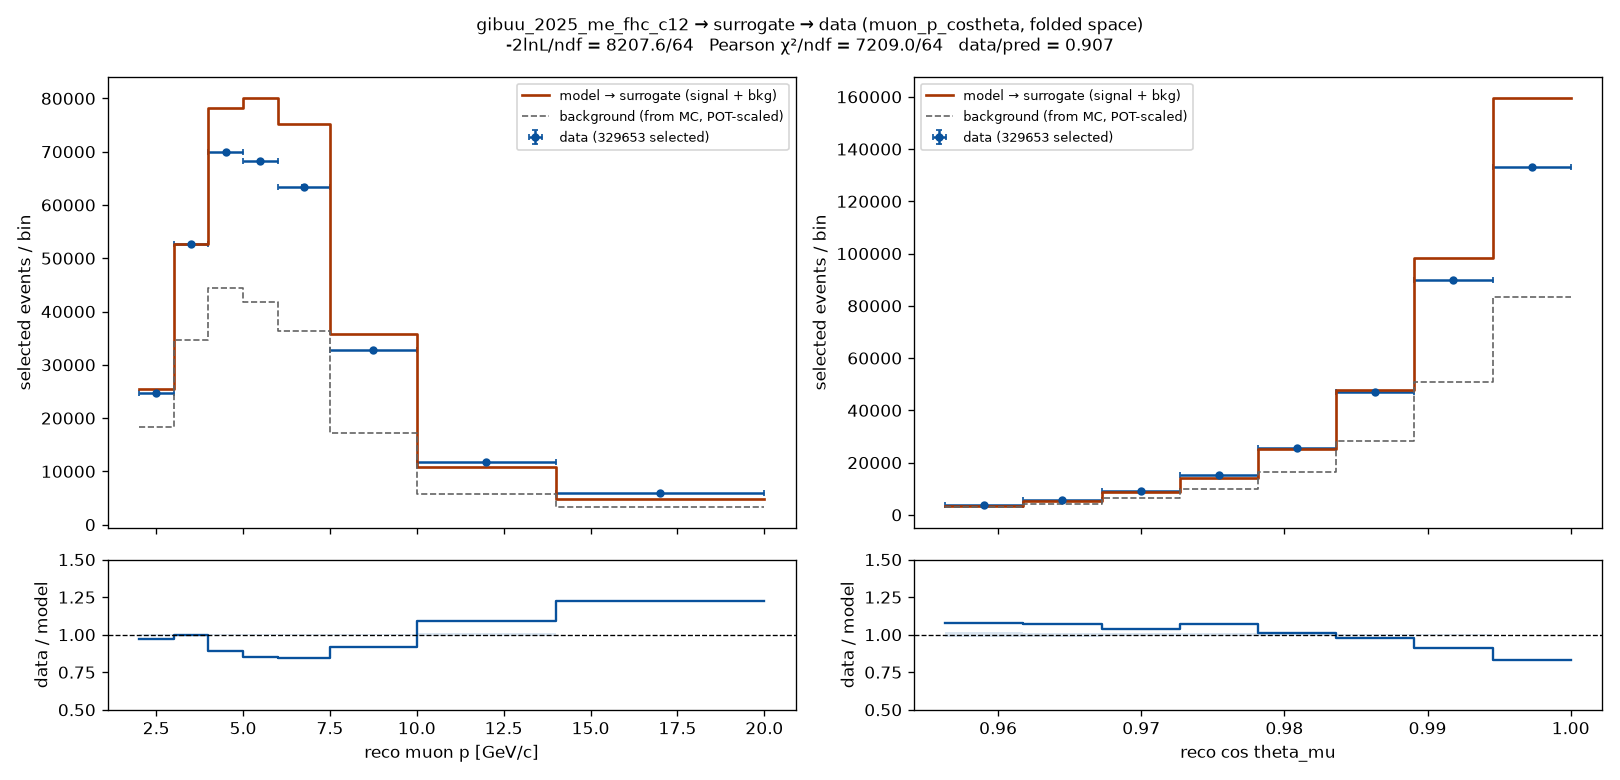
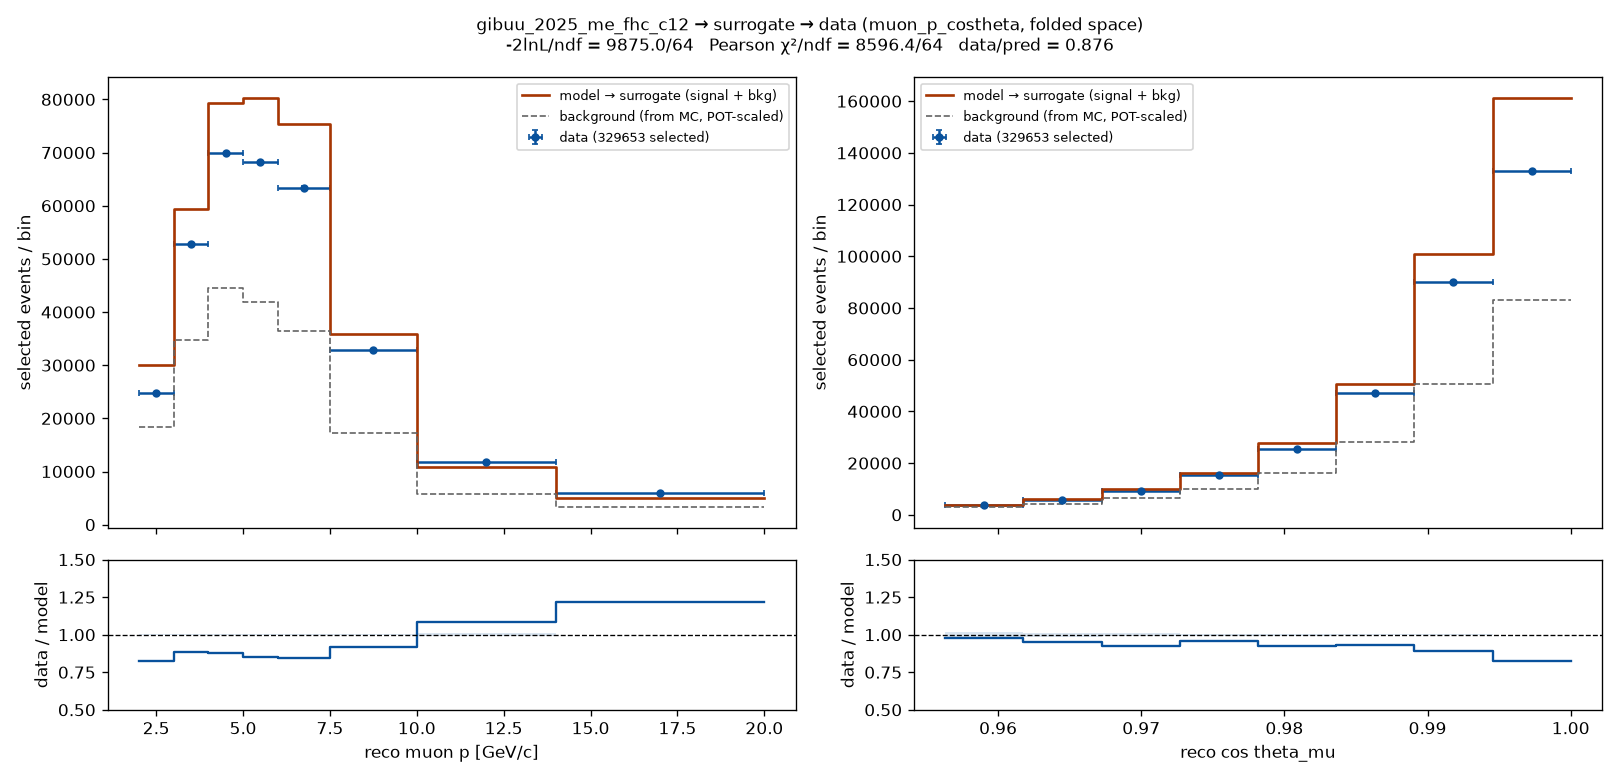
GiBUU overlay, final sample: 115 of 116 energy points, 94.6 percent of the flux
153 of 156 jobs merged (979 395 events, sigma_CC = 4.124e-38 cm2/nucleon over the
covered flux; QE 8.3, RES 15.6, DIS 72.6, 2p2h 3.5 percent). Data 329 293 selected
vs GiBUU signal 175 508 + MC background 201 827: data/pred 0.873 on dpT, 0.85-0.88
across the 18 grids (GENIE central value: 0.842). Only the 2.25 GeV point is
missing, where the 1mu1p phase space is closed, so the signal is unaffected.

Claude-Session: https://claude.ai/code/session_01RsKDgBGBAfg8hdaAriDoeB

diff --git a/report/GiBUU_overlay_FHC.md b/report/GiBUU_overlay_FHC.md
@@ -1,6 +1,6 @@
 # GiBUU 1μ1p signal on the MINERvA ME FHC selection: efficiency, background and data overlay
 
-**Status:** rendered from `runs/2026-09-15_efficiency_minerva_me_ccqelike_1mu1p` (efficiency maps, background, ansatz closure) and `runs/2026-09-16_gibuu_2025_me_fhc_c12__minerva_me_ccqelike_1mu1p__all` (data vs GiBUU signal + MC background on 18 grids), manifest git `c4c8a74`. Numbers are quoted from those directories; this file was rendered by `report/make_overlay_report.py`.
+**Status:** rendered from `runs/2026-09-15_efficiency_minerva_me_ccqelike_1mu1p` (efficiency maps, background, ansatz closure) and `runs/2026-09-16_gibuu_2025_me_fhc_c12__minerva_me_ccqelike_1mu1p__all_3` (data vs GiBUU signal + MC background on 18 grids), manifest git `2b81262`. Numbers are quoted from those directories; this file was rendered by `report/make_overlay_report.py`.
 
 **Model:** GiBUU 2025 numu CC on 12C under the NuMI ME FHC flux, generated as fixed-energy integratedSigma runs on a flux-weighted 0.5 GeV energy grid (2-60 GeV, 116 points, 156 grid jobs, ~1.07M events with near-uniform weights); in-medium resonance widths on, 2p2h and two-pion background on.
 
@@ -12,13 +12,13 @@
 |---|---|
 | data | ME FHC playlists 1A–1P, 1.057 × 10²¹ POT_Used, 329 653 selected events |
 | official MC (efficiency and background) | 4.978 × 10²¹ POT, 2 734 225 truth signal events in the fiducial volume, 891 177 selected (⟨ε⟩ = 0.3259) |
-| GiBUU sample | GiBUU Release 2025 patch 5, 958 395 events from 148 job(s), fingerprint `1f8bcb950be1dcd0` |
-| GiBUU σ_CC (flux-averaged, per nucleon) | 3.8390e-38 cm² |
+| GiBUU sample | GiBUU Release 2025 patch 5, 979 395 events from 153 job(s), fingerprint `1f8bcb950be1dcd0` |
+| GiBUU σ_CC (flux-averaged, per nucleon) | 4.1245e-38 cm² |
 | normalisation | N_true = sigma_cell * N_nuc(3.23e+30) * Phi(6.32e-08) * POT(1.057e+21) |
 
 ## 1b. The GiBUU sample
 
-113 energy points from 3.25 to 59.75 GeV covering 0.8309 of the 0 to 100 GeV flux, 148 grid jobs, 958 395 events. Flux-averaged σ$_{CC}$ over the covered flux: 3.8390e-38 cm²/nucleon. **3 planned points have no job**, so the predicted rate is biased low by their share of the flux.
+115 energy points from 2.75 to 59.75 GeV covering 0.9460 of the 0 to 100 GeV flux, 153 grid jobs, 979 395 events. Flux-averaged σ$_{CC}$ over the covered flux: 4.1245e-38 cm²/nucleon. **1 planned points have no job**, so the predicted rate is biased low by their share of the flux.
 
 ![sigma of energy](figs/gibuu_sigma_of_energy.png)
 *σ$_{CC}$(E) of every point against the GENIE spline, with each point's flux weight and event count.*
@@ -139,24 +139,24 @@ Three predictions per grid: **full** = GiBUU truth cells × efficiency × migrat
 
 | grid | data | full | eff-only | ansatz | background | data/full | −2lnL/ndf (full) |
 |---|---|---|---|---|---|---|---|
-| muon p | 329653 | 363853 | 363853 | 367340 | 202110 | 0.906 | 5415.7/8 |
-| muon θ | 329653 | 363937 | 363937 | 367340 | 202110 | 0.906 | 5937.5/14 |
-| muon p_T | 329650 | 356292 | 356296 | 367335 | 202105 | 0.925 | 5142.6/10 |
-| leading proton p | 289289 | 319405 | 327278 | 335460 | 170230 | 0.906 | 3940.5/5 |
-| leading proton θ | 323116 | 357515 | 358394 | 363640 | 198410 | 0.904 | 10185.3/10 |
-| leading proton p_T | 329382 | 360438 | 360475 | 367155 | 201926 | 0.914 | 4133.7/7 |
-| δp_T | 329293 | 360321 | 360407 | 367057 | 201827 | 0.914 | 5602.2/6 |
-| δp_T (fine) | 329293 | 360657 | 360743 | 367057 | 201827 | 0.913 | 6132.1/9 |
-| δp_Tx | 329467 | 359601 | 359625 | 367212 | 201982 | 0.916 | 3639.7/8 |
-| δp_Ty | 329467 | 359344 | 359368 | 367212 | 201982 | 0.917 | 3561.4/11 |
-| δα_T | 329467 | 359065 | 359090 | 367212 | 201982 | 0.918 | 2600.0/5 |
-| φ_T | 329467 | 360385 | 360410 | 367212 | 201982 | 0.914 | 5028.7/6 |
-| δp_L | 329420 | 362856 | 362898 | 367177 | 201947 | 0.908 | 12237.7/7 |
-| p_n | 329467 | 362132 | 362157 | 367212 | 201982 | 0.910 | 10859.9/10 |
-| cos θ_μ | 329653 | 364181 | 364181 | 367340 | 202110 | 0.905 | 5565.5/8 |
-| cos θ_p | 323116 | 357284 | 358181 | 363640 | 198410 | 0.904 | 10328.3/8 |
-| muon p × cos θ_μ | 329653 | 363324 | 363324 | 367340 | 202110 | 0.907 | 8207.6/64 |
-| proton p × cos θ_p | 282881 | 317976 | 327220 | 331863 | 166633 | 0.890 | 12576.7/40 |
+| muon p | 329653 | 377228 | 377228 | 380660 | 202110 | 0.874 | 7676.8/8 |
+| muon θ | 329653 | 376281 | 376281 | 380660 | 202110 | 0.876 | 7362.9/14 |
+| muon p_T | 329650 | 373754 | 373759 | 380655 | 202105 | 0.882 | 8770.4/10 |
+| leading proton p | 289289 | 334950 | 343748 | 348781 | 170230 | 0.864 | 7240.4/5 |
+| leading proton θ | 323116 | 374157 | 375129 | 376960 | 198410 | 0.864 | 12692.1/10 |
+| leading proton p_T | 329382 | 377238 | 377278 | 380476 | 201926 | 0.873 | 7593.0/7 |
+| δp_T | 329293 | 377335 | 377429 | 380377 | 201827 | 0.873 | 8589.6/6 |
+| δp_T (fine) | 329293 | 377708 | 377801 | 380377 | 201827 | 0.872 | 9125.5/9 |
+| δp_Tx | 329467 | 376210 | 376237 | 380533 | 201982 | 0.876 | 6932.7/8 |
+| δp_Ty | 329467 | 376260 | 376287 | 380533 | 201982 | 0.876 | 6895.0/11 |
+| δα_T | 329467 | 375691 | 375718 | 380533 | 201982 | 0.877 | 6144.1/5 |
+| φ_T | 329467 | 376985 | 377012 | 380533 | 201982 | 0.874 | 8067.1/6 |
+| δp_L | 329420 | 379475 | 379521 | 380498 | 201947 | 0.868 | 14462.6/7 |
+| p_n | 329467 | 379275 | 379302 | 380532 | 201982 | 0.869 | 13069.6/10 |
+| cos θ_μ | 329653 | 376542 | 376542 | 380660 | 202110 | 0.875 | 7047.5/8 |
+| cos θ_p | 323116 | 373895 | 374886 | 376960 | 198410 | 0.864 | 12829.8/8 |
+| muon p × cos θ_μ | 329653 | 376299 | 376299 | 380660 | 202110 | 0.876 | 9875.0/64 |
+| proton p × cos θ_p | 282881 | 333725 | 344013 | 345184 | 166633 | 0.848 | 15331.9/40 |
 
 ![muon_p](figs/gibuu_overlay_muon_p.png)
 *Figure 1 — muon p.*
